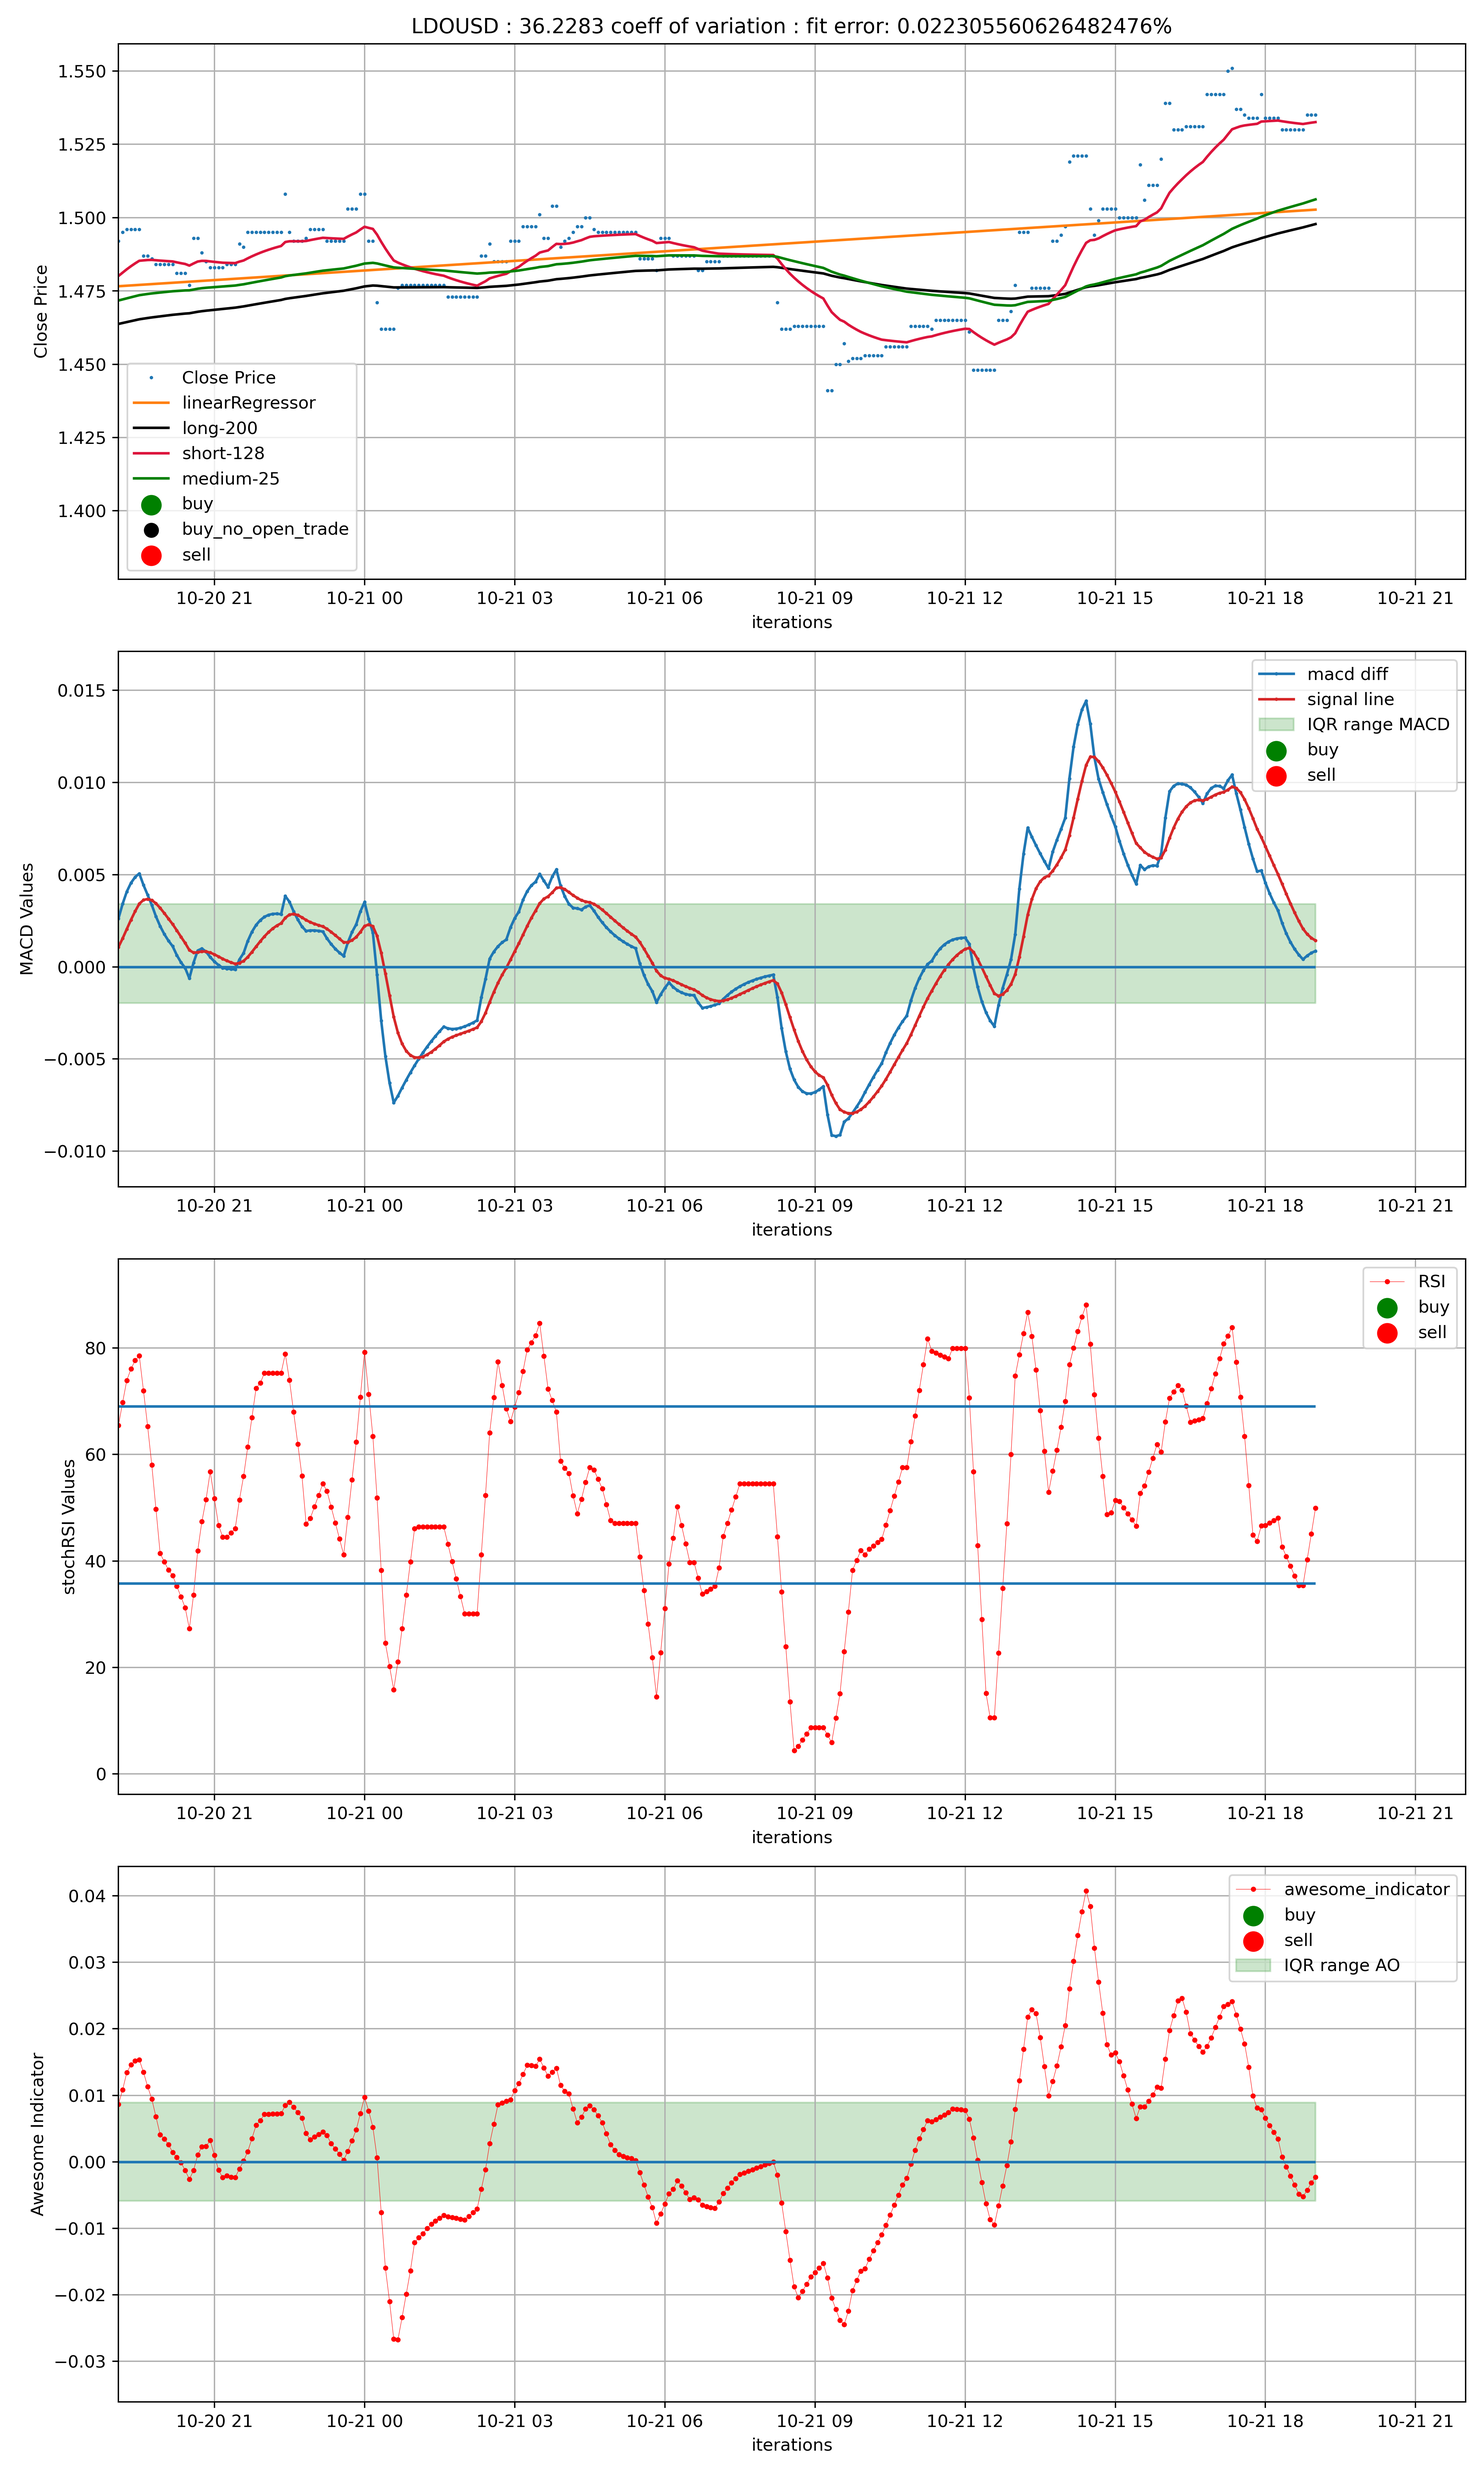
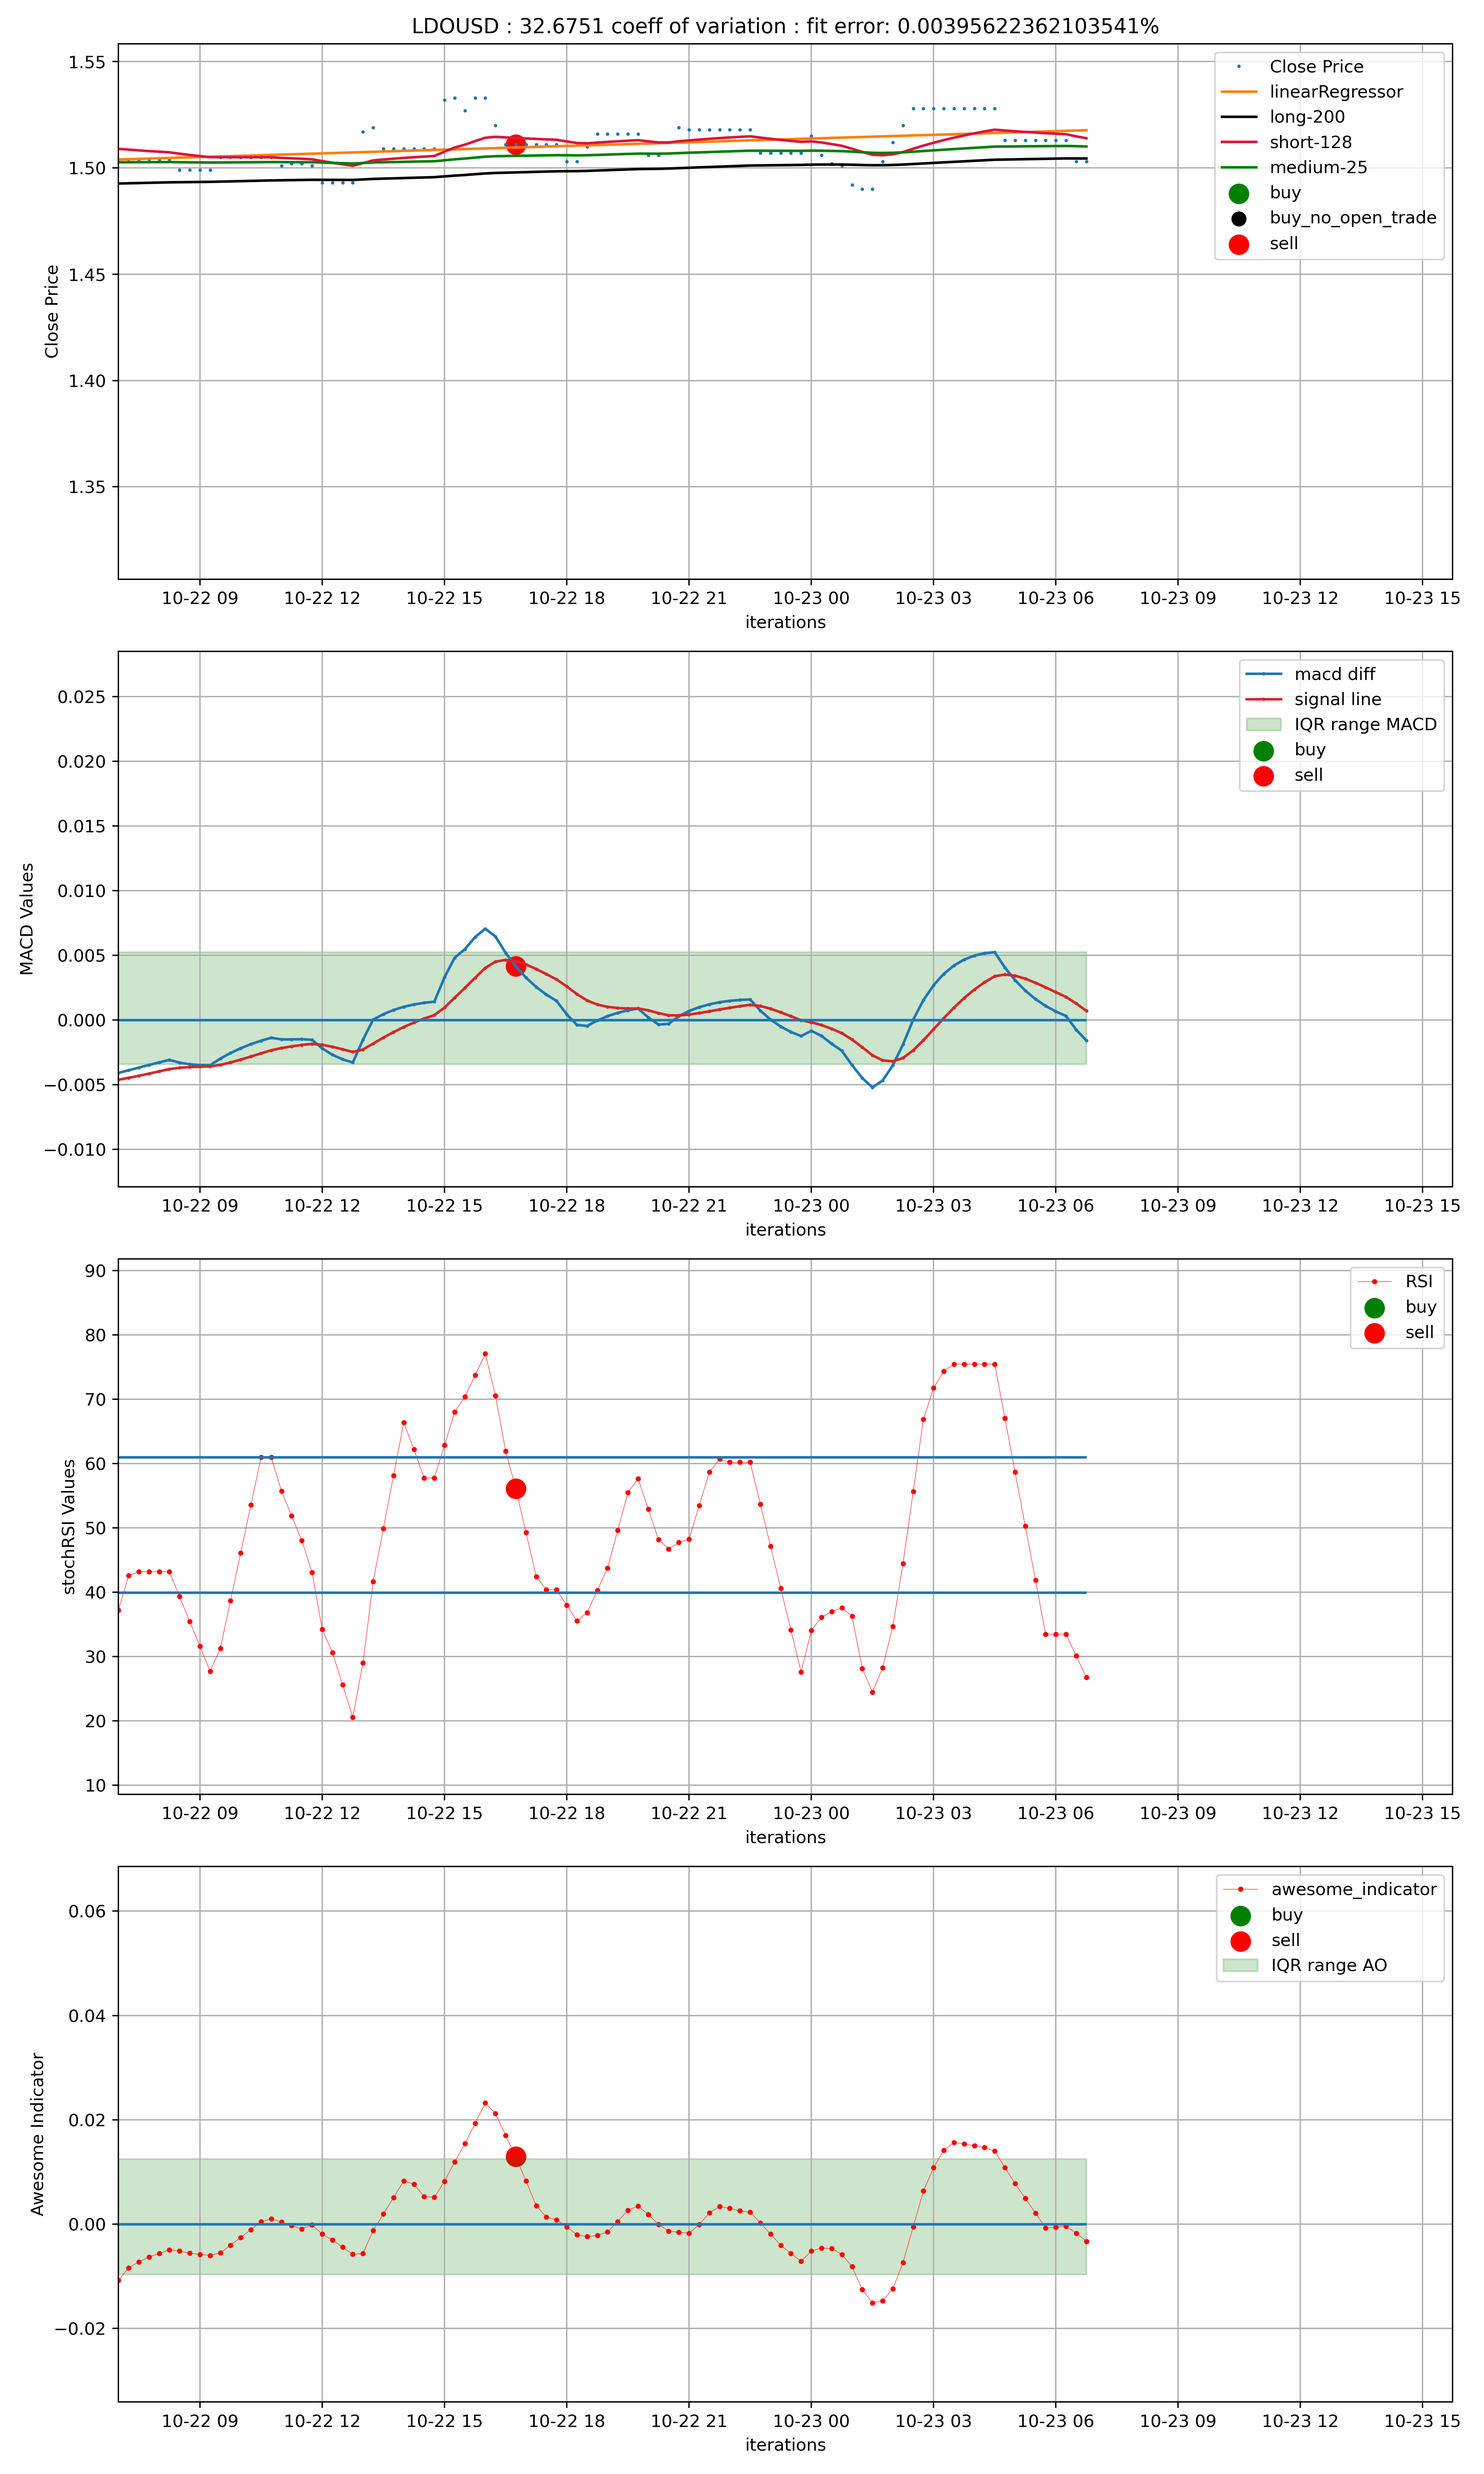
FIX: coeff of variation condition to be any crypto above the upper bound

diff --git a/technical_analysis.py b/technical_analysis.py
@@ -26,13 +26,14 @@ from tqdm import tqdm
 from glob import glob
 from psutil import virtual_memory
 import logging
+from scipy.stats import pearsonr
 warnings.filterwarnings("ignore")
 """
 TODO: 
 -convert UTC to PST time
 -change the sell condition to be the crossover points of the MACD or zero crossing of the Awe ind
 """
-SAMPLE_RATE = 5
+SAMPLE_RATE = 15
 logging.basicConfig(filename=join(getcwd(),'errors.log'), level=logging.DEBUG, 
                     format='%(asctime)s %(levelname)s %(name)s %(message)s')
 logger=logging.getLogger(__name__)
@@ -179,6 +180,13 @@ class technical():
         self.data['log_return'] = log(self.data['close']/self.data['close'].shift())
         self.volatility_value = self.data['log_return'].std()*len(self.data)**0.5 #365 days of trading square root
         self.coef_variation = self.data['log_return'].std() / self.data['log_return'].mean()
+    def correlational_analysis(self):
+        len_RSI = len(self.data['RSI'].dropna().values)
+        len_macd = len(self.data['macd_diff'].dropna().values)
+        len_ao = len(self.data['ao'].dropna().values)
+        len_values = min([len_RSI,len_macd,len_ao])
+        self.corr_RSI_MACD = pearsonr(self.data['RSI'].dropna().iloc[0:len_values].values,self.data['macd_diff'].dropna().iloc[0:len_values].values)
+        self.corr_ao_MACD = pearsonr(self.data['ao'].dropna().iloc[0:len_values].values,self.data['macd_diff'].dropna().iloc[0:len_values].values)
     def plot(self,name):
         # xlim_val = [self.data.index[int((24*60)/SAMPLE_RATE)],self.data.index[-1]]
         x_low_lim = self.data.index[-int((24*60)/SAMPLE_RATE)]
@@ -289,8 +297,8 @@ class technical():
                 (self.data['ao'].iloc[o] < 0) and
                 (self.data['macd_diff'].iloc[o] < 0) and
                 (self.data['macd_diff'].iloc[o] < self.q25_macd) and
-                (self.coef_variation > self.lb_coef_deter) and 
-                (self.coef_variation < self.ub_coef_deter)
+                # (self.coef_variation > self.lb_coef_deter) and #maybe volatitlity is what I want? switching from things within the IQR to things above
+                (self.coef_variation > self.ub_coef_deter)
                 ):
                     self.buy_for_trading = o
                     self.data['buy_no_condition'].iloc[o] = self.data['close'].iloc[o]
@@ -393,14 +401,19 @@ class technical():
                 self.awesome_indicator()
                 self.half_LR()
                 self.volatility()
+                # self.correlational_analysis()
                 self.trade()
                 # if self.coef_variation != 'nan':
                 save_hist.append(self.coef_variation)
-                if ((self.lb_coef_deter < self.coef_variation) and 
-                   (self.ub_coef_deter > self.coef_variation)):
+                if (
+                    # (self.lb_coef_deter < self.coef_variation) and 
+                   (self.ub_coef_deter < self.coef_variation)
+                   ):
                     self.plot(name)
                 self.live_trading(name)
                 save_hold_time_temp.append(self.save_time_hold)
+                # print(self.corr_RSI_MACD)
+                # print(self.corr_ao_MACD)
                 print(f'cumulative gain {round(self.cumlative_gained,4)}% after running {name}')
                 sleep(1)
             # plt.figure()
